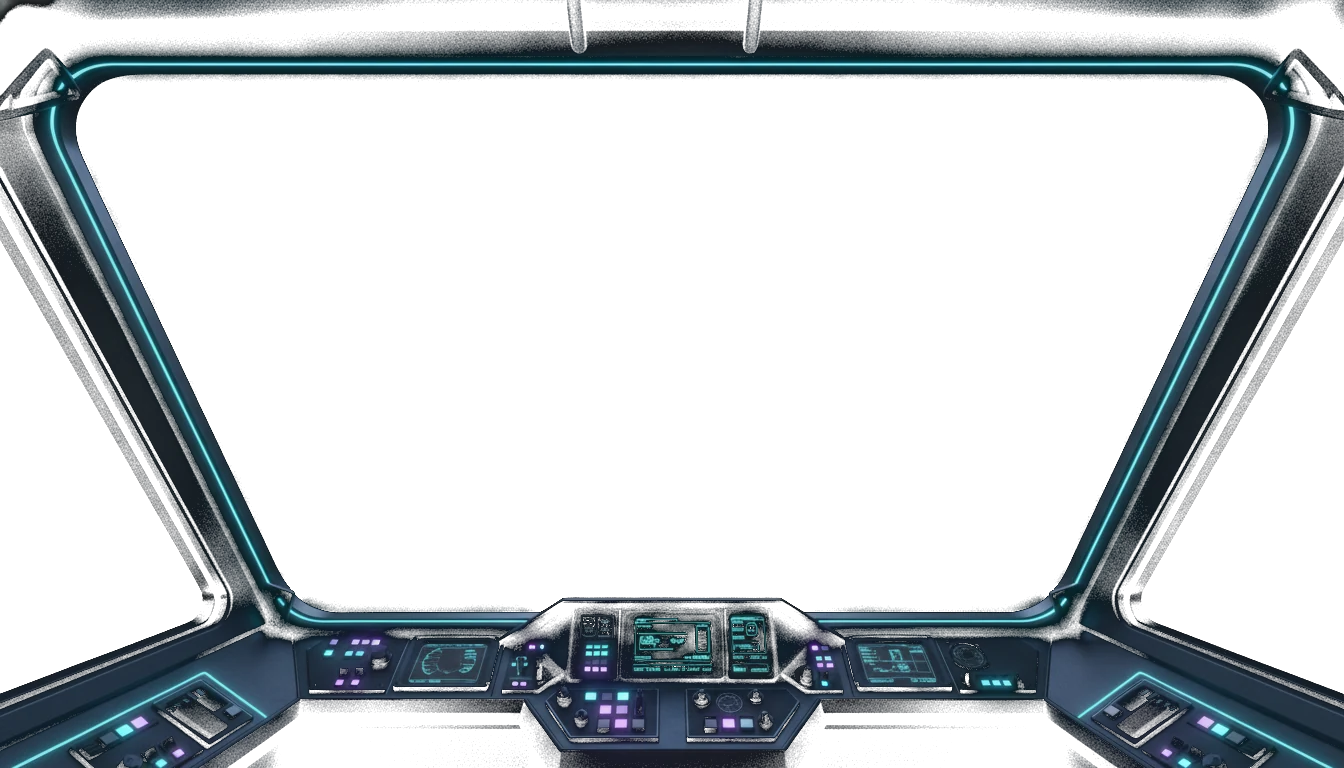
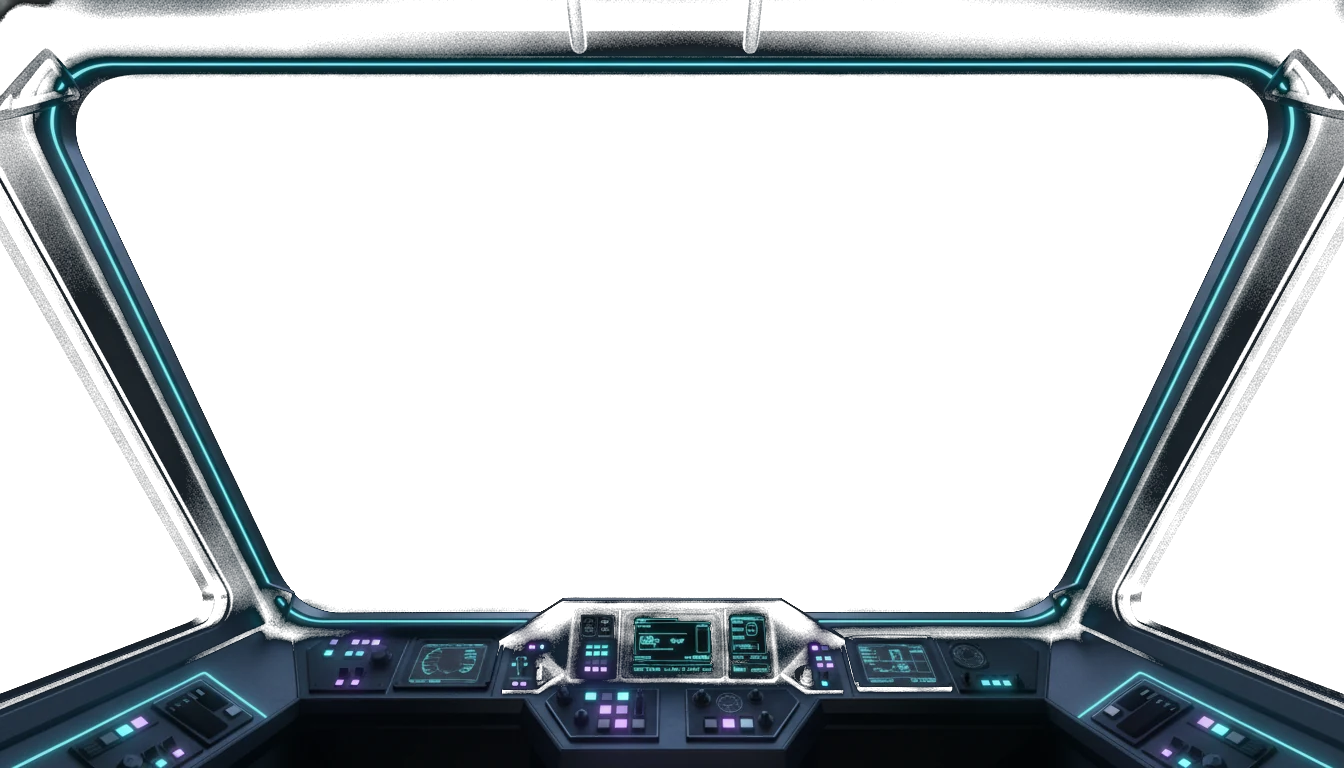
Rocket CDN: игра-исследование - вселенные, комета, спутник, клавиши на консоли
Кабина без дыры: прозрачность вырезается заливкой только из области
окна, тёмная консоль с приборами больше не превращается в пробоину.
Кнопки навигации сняты со «стеклянных таблеток» и посажены на саму
консоль клавишами: тёмный металл, утопленная посадка, светящаяся
кромка. На телефоне - одна лента с прокруткой пальцем.

Три вселенные: в межгалактическом коридоре повторное нажатие
«Галактика» делает гипер-вспышку и переносит в следующую вселенную -
тот же мир в другом свете: небо, туманности, звёзды и солнце
перекрашиваются (Солнечная система, RV-2 фиолетовая, RC-3 янтарная).

Живой космос: комета с хвостом от солнца ходит по эллипсу между
Марсом и Сатурном, спутник RC-SAT с солнечными панелями крутится на
низкой орбите Земли. Оба отвечают бортовому справочнику. Клавиши,
автопилот и справочник щёлкают звуком через Web Audio.

Заставка кабинета: нимбы атмосфер у планет, больше звёздной пыли,
подпись бренда.

Claude-Session: https://claude.ai/code/session_01CyXcsJUPkZjZVf5BT25tew

diff --git a/rocketcdn/assets/rc-flight.js b/rocketcdn/assets/rc-flight.js
@@ -59,6 +59,22 @@ var F = {
 var ui = {};      /* DOM оверлея */
 var W3 = null;    /* всё трёхмерное */
 
+/* Три вселенные: своя окраска неба, туманностей, звёзд и солнца.
+   Мир один, но за гипер-вспышкой он оживает в другом свете - и его
+   хочется исследовать заново. */
+var UNIVERSES = [
+  { name: RU ? "СОЛНЕЧНАЯ СИСТЕМА" : "SOLAR SYSTEM",
+    sky: 0x9db4cc, amb: 0x3a4a68, neb: [0x42b2dc, 0x8a59f6], sun: 0xfff2dc,
+    stars: [0xcfe9f5, 0x8fb7ff, 0xffe9c9] },
+  { name: RU ? "ВСЕЛЕННАЯ RV-2" : "UNIVERSE RV-2",
+    sky: 0xa08cd8, amb: 0x4a3468, neb: [0x8a59f6, 0xd06bff], sun: 0xe8d4ff,
+    stars: [0xe2d4ff, 0xb08cff, 0xffc9ec] },
+  { name: RU ? "ВСЕЛЕННАЯ RC-3" : "UNIVERSE RC-3",
+    sky: 0xd8b48c, amb: 0x684a34, neb: [0xffb066, 0xff7a4d], sun: 0xffe0b0,
+    stars: [0xffe9cf, 0xffc98f, 0xc9e2ff] }
+];
+var uniIdx = 0;
+
 /* ── Оверлей ─────────────────────────────────────────────────
    DOM собирается один раз при первом открытии: кнопка полёта не
    должна ничего стоить тем, кто её не нажал. */
@@ -125,10 +141,15 @@ function buildUI() {
 
   w.querySelector(".rcf-close").addEventListener("click", close);
   ui.ret.addEventListener("click", close);
-  ui.auto.addEventListener("click", function () { setAuto(!F.auto); });
+  ui.auto.addEventListener("click", function () {
+    setAuto(!F.auto);
+    if (g.RC_SOUND && g.RC_SOUND.blip) { try { g.RC_SOUND.blip(F.auto ? 760 : 420, 0.09, "sine", 0.045); } catch (e) {} }
+  });
   ui.nav.addEventListener("click", function (e) {
     var b = e.target.closest("button[data-goal]");
-    if (b) goTo(b.getAttribute("data-goal"));
+    if (!b) return;
+    goTo(b.getAttribute("data-goal"));
+    if (g.RC_SOUND && g.RC_SOUND.blip) { try { g.RC_SOUND.blip(640, 0.08, "square", 0.028); } catch (e) {} }
   });
   bindControls();
 }
@@ -157,8 +178,50 @@ function manual() {
   hideHint();
 }
 
+function applyUniverse(i) {
+  if (!W3) return;
+  var T = g.THREE, u = UNIVERSES[i % UNIVERSES.length];
+  W3.sky.material.color.set(u.sky);
+  W3.amb.color.set(u.amb);
+  W3.sunGlow.material.color = new T.Color(u.sun);
+  for (var k = 0; k < W3.nebSprites.length; k++) {
+    W3.nebSprites[k].material.color = new T.Color(u.neb[k % 2]);
+  }
+  for (k = 0; k < W3.starMats.length; k++) {
+    W3.starMats[k].color.set(u.stars[k]);
+  }
+}
+
+/* Прыжок между вселенными: белая вспышка, за ней мир уже другой */
+var uniBusy = false;
+function jumpUniverse() {
+  if (uniBusy || !W3) return;
+  uniBusy = true;
+  uniIdx = (uniIdx + 1) % UNIVERSES.length;
+  if (ui.fade) { ui.fade.style.transition = "opacity .45s"; ui.fade.style.opacity = "1"; }
+  if (g.RC_SOUND && g.RC_SOUND.chime) { try { g.RC_SOUND.chime(); } catch (e) {} }
+  F.shake = 1;
+  setTimeout(function () {
+    applyUniverse(uniIdx);
+    if (ui.cap) {
+      ui.cap._t = UNIVERSES[uniIdx].name;
+      ui.cap._hold = performance.now() + 3200;
+      ui.cap.classList.remove("in"); void ui.cap.offsetWidth;
+      ui.cap.textContent = UNIVERSES[uniIdx].name;
+      ui.cap.classList.add("in");
+    }
+    if (ui.fade) ui.fade.style.opacity = "0";
+    setTimeout(function () { uniBusy = false; }, 700);
+  }, 480);
+}
+
 function goTo(id) {
   if (!W3 || !W3.at) return;
+  if (id === "galaxy" && F.p > W3.at.jump0 && F.p < W3.at.jump1) {
+    /* Уже в межгалактическом коридоре: прыгаем в другую вселенную */
+    jumpUniverse();
+    return;
+  }
   var p = id === "earth" ? 0.02
         : id === "home" ? 0.985
         : id === "galaxy" ? (W3.at.jump0 + W3.at.jump1) / 2
@@ -239,7 +302,8 @@ function buildWorld() {
   var FOV0 = portrait ? 84 : 72;
   var cam = new T.PerspectiveCamera(FOV0, 1, 0.1, 9000);
 
-  scene.add(new T.AmbientLight(0x3a4a68, 0.85));
+  var amb = new T.AmbientLight(0x3a4a68, 0.85);
+  scene.add(amb);
   var sun = new T.DirectionalLight(0xfff2dc, 1.6);
   sun.position.set(2600, 1000, 1750);
   scene.add(sun);
@@ -274,9 +338,11 @@ function buildWorld() {
     scene.add(pts);
     return pts;
   }
-  stars(mob ? 2400 : 5200, 2.4, 3000, 0xcfe9f5);
-  stars(mob ? 900 : 2200, 3.6, 2200, 0x8fb7ff);
-  stars(mob ? 400 : 900, 4.8, 1500, 0xffe9c9);
+  var starMats = [
+    stars(mob ? 2400 : 5200, 2.4, 3000, 0xcfe9f5).material,
+    stars(mob ? 900 : 2200, 3.6, 2200, 0x8fb7ff).material,
+    stars(mob ? 400 : 900, 4.8, 1500, 0xffe9c9).material
+  ];
 
   /* Солнце: далёкий слепящий блик, как на съёмке с орбиты */
   var sunGlow = new T.Sprite(new T.SpriteMaterial({
@@ -291,11 +357,13 @@ function buildWorld() {
   var nebT = glowSprite(256, "rgba(66,178,220,.32)", "rgba(66,178,220,0)");
   var nebV = glowSprite(256, "rgba(138,89,246,.28)", "rgba(138,89,246,0)");
   var nebs = [[-1400, 500, -2400, 2600, nebT], [1900, -300, -1500, 2100, nebV], [600, 800, 2200, 2400, nebT], [-2100, -600, 1400, 1900, nebV]];
+  var nebSprites = [];
   for (var i = 0; i < nebs.length; i++) {
     var sp = new T.Sprite(new T.SpriteMaterial({ map: nebs[i][4], transparent: true, opacity: 0.5, depthWrite: false }));
     sp.position.set(nebs[i][0], nebs[i][1], nebs[i][2]);
     sp.scale.setScalar(nebs[i][3]);
     scene.add(sp);
+    nebSprites.push(sp);
   }
 
   /* ── Земля ── */
@@ -478,6 +546,46 @@ function buildWorld() {
   var pickables = [eBody, moon, mars, saturn.children[0], hole.children[0]];
   saturn.children[0].userData.info = RU ? "САТУРН · кольца открыл Гюйгенс, 1655" : "SATURN · rings discovered by Huygens, 1655";
 
+  /* Комета: ядро со свечением и хвост из частиц. Ходит по вытянутому
+     эллипсу между Марсом и Сатурном, хвост всегда от солнца. */
+  var comet = new T.Group();
+  var cometCore = new T.Sprite(new T.SpriteMaterial({
+    map: glowSprite(64, "rgba(220,244,255,1)", "rgba(160,220,255,0)"),
+    transparent: true, depthWrite: false, blending: T.AdditiveBlending
+  }));
+  cometCore.scale.setScalar(26);
+  cometCore.userData.info = RU ? "КОМЕТА RC/2026 · хвост всегда смотрит от солнца" : "COMET RC/2026 · the tail always points away from the sun";
+  comet.add(cometCore);
+  var cometTail = (function () {
+    var n = 90, geo = new T.BufferGeometry(), posA = new Float32Array(n * 3);
+    for (var k = 0; k < n; k++) {
+      var d = k / n;
+      posA[k * 3] = -d * 150 + (Math.random() - 0.5) * d * 26;
+      posA[k * 3 + 1] = (Math.random() - 0.5) * d * 26;
+      posA[k * 3 + 2] = (Math.random() - 0.5) * d * 26;
+    }
+    geo.setAttribute("position", new T.BufferAttribute(posA, 3));
+    return new T.Points(geo, new T.PointsMaterial({
+      color: 0xbfe4ff, size: 7, sizeAttenuation: true, map: starDot,
+      transparent: true, opacity: 0.55, depthWrite: false, blending: T.AdditiveBlending
+    }));
+  })();
+  comet.add(cometTail);
+  scene.add(comet);
+  pickables.push(cometCore);
+
+  /* Спутник на орбите Земли: корпус и две солнечные панели */
+  var sat = new T.Group();
+  var satBody = new T.Mesh(new T.BoxGeometry(4, 4, 8),
+    new T.MeshPhongMaterial({ color: 0xd8e2ec, shininess: 60 }));
+  satBody.userData.info = RU ? "СПУТНИК RC-SAT · ретранслятор Rocket CDN на низкой орбите" : "RC-SAT · Rocket CDN relay in low orbit";
+  sat.add(satBody);
+  var panelMat = new T.MeshPhongMaterial({ color: 0x1d4d8f, shininess: 90, side: T.DoubleSide });
+  var p1 = new T.Mesh(new T.PlaneGeometry(16, 5), panelMat); p1.position.x = 11; sat.add(p1);
+  var p2 = new T.Mesh(new T.PlaneGeometry(16, 5), panelMat); p2.position.x = -11; sat.add(p2);
+  scene.add(sat);
+  pickables.push(satBody);
+
   var milky = spiralGalaxy(900, 420, -3300, 950, 0x9fd8ef, 0x8fb7ff, 0.9, 0.3);
   var gal2 = spiralGalaxy(-2800, -500, -1600, 680, 0xb08cff, 0x8a59f6, 1.15, -0.4);
   var gal3 = spiralGalaxy(3400, 700, -400, 620, 0xffd9a6, 0xff9d6b, 0.75, 0.55);
@@ -576,6 +684,7 @@ function buildWorld() {
   return {
     r: r, scene: scene, cam: cam, path: path, looks: LOOKS, at: AT, fov0: FOV0,
     milky: milky, gal2: gal2, gal3: gal3,
+    comet: comet, sat: sat, nebSprites: nebSprites, starMats: starMats, sunGlow: sunGlow, amb: amb,
     earth: earth, moon: moon, mars: mars, saturn: saturn, hole: hole,
     diskMat: diskMat, jump: jump, sky: sky, pickables: pickables,
     tmpA: new T.Vector3(), tmpB: new T.Vector3(), tmpQ: new T.Quaternion(), tmpM: new T.Matrix4()
@@ -751,6 +860,21 @@ function frame(ts) {
   w3.sky.rotation.y += dt * 0.0025;
   if (w3.milky) { w3.milky.rotation.y += dt * 0.01; w3.gal2.rotation.y -= dt * 0.008; w3.gal3.rotation.y += dt * 0.012; }
 
+  /* Комета: эллипс между Марсом и Сатурном, хвост от солнца */
+  if (w3.comet) {
+    var ca = ts * 0.000021;
+    w3.comet.position.set(950 + Math.cos(ca) * 520, -40 + Math.sin(ca * 1.7) * 90, -860 + Math.sin(ca) * 300);
+    w3.tmpB.copy(w3.comet.position).sub(w3.sunGlow.position).normalize();
+    w3.comet.lookAt(w3.tmpA.copy(w3.comet.position).add(w3.tmpB));
+    w3.comet.rotateY(Math.PI / 2);
+  }
+  /* Спутник: низкая орбита Земли с наклоном */
+  if (w3.sat) {
+    var sa = ts * 0.00011;
+    w3.sat.position.set(Math.cos(sa) * 86, Math.sin(sa * 2) * 20, Math.sin(sa) * 86);
+    w3.sat.rotation.y = sa + 1.2;
+  }
+
   /* Бортовой справочник: навёл на планету или галактику - корабль
      говорит, что это и когда открыто. Дорогую проверку пересечений
      гоняем восемь раз в секунду, не каждый кадр. */
@@ -765,7 +889,11 @@ function frame(ts) {
     }
     if (info !== frame._info) {
       frame._info = info;
-      if (info) { ui.info.textContent = info; ui.info.classList.add("on"); }
+      if (info) {
+        ui.info.textContent = info;
+        ui.info.classList.add("on");
+        if (g.RC_SOUND && g.RC_SOUND.blip) { try { g.RC_SOUND.blip(920, 0.06, "sine", 0.018); } catch (e) {} }
+      }
       else ui.info.classList.remove("on");
     }
     F.pick = false;
@@ -785,7 +913,7 @@ function frame(ts) {
   /* HUD */
   var cap = CAPTIONS[0];
   for (i = CAPTIONS.length - 1; i >= 0; i--) { if (F.p >= CAPTIONS[i].p) { cap = CAPTIONS[i]; break; } }
-  if (ui.cap._t !== cap.t) {
+  if (ui.cap._t !== cap.t && !(ui.cap._hold && ts < ui.cap._hold)) {
     ui.cap._t = cap.t;
     ui.cap.classList.remove("in");
     void ui.cap.offsetWidth;

diff --git a/rocketcdn/assets/rc-flight.css b/rocketcdn/assets/rc-flight.css
@@ -85,9 +85,9 @@ html.rc-flying body { overflow: hidden; }
 }
 
 .rcf-track {
-  position: absolute; left: 50%; bottom: clamp(12px, 3.2vh, 30px);
+  position: absolute; left: 50%; bottom: 1.6%;
   transform: translateX(-50%);
-  width: min(420px, 56vw); height: 2px;
+  width: min(380px, 48vw); height: 2px;
   background: rgba(207,233,245,.16);
   border-radius: 2px;
 }
@@ -99,7 +99,7 @@ html.rc-flying body { overflow: hidden; }
 }
 
 .rcf-hint {
-  position: absolute; left: 50%; bottom: clamp(28px, 6.5vh, 60px);
+  position: absolute; left: 50%; bottom: 16%;
   transform: translateX(-50%);
   color: rgba(207,233,245,.75);
   font-size: clamp(11px, 1.3vw, 13px);
@@ -112,7 +112,7 @@ html.rc-flying body { overflow: hidden; }
 @keyframes rcfPulse { 0%,100% { opacity: .55 } 50% { opacity: 1 } }
 
 .rcf-speed {
-  position: absolute; right: clamp(14px, 3vw, 40px); bottom: clamp(12px, 3.2vh, 30px);
+  position: absolute; right: clamp(14px, 4vw, 60px); bottom: 3.4%;
   color: #CFE9F5; text-align: right;
   font-variant-numeric: tabular-nums;
 }
@@ -275,34 +275,53 @@ html[data-theme="light"] .rc-vidbg.on { opacity: .16; }
 }
 .rc-flight.has-cab .rcf-cab { opacity: 1; }
 
-/* ── Навигация по целям ──────────────────────────────────────ы */
+/* ── Навигация: клавиши прямо на консоли корабля ─────────────
+   Кнопки стоят в зоне нарисованной панели и сделаны её клавишами:
+   тёмный металл, утопленная посадка, светящаяся кромка снизу.
+   Никаких «стеклянных таблеток поверх кадра». */
 .rcf-nav {
-  position: absolute; left: 50%; bottom: clamp(46px, 10vh, 92px);
+  position: absolute; left: 50%; bottom: 3.6%;
   transform: translateX(-50%);
-  display: flex; gap: 6px; flex-wrap: wrap; justify-content: center;
-  max-width: 94vw;
+  display: flex; gap: 7px; flex-wrap: wrap; justify-content: center;
+  max-width: min(760px, 86vw);
   pointer-events: auto;
 }
 .rcf-nav button {
   font-family: var(--f-body, "Golos Text", sans-serif);
-  font-size: 11px; font-weight: 600; letter-spacing: .12em;
+  font-size: 10.5px; font-weight: 700; letter-spacing: .14em;
   text-transform: uppercase;
-  color: rgba(207,233,245,.8);
-  background: rgba(4,10,18,.6);
-  border: 1px solid rgba(66,178,220,.3);
-  border-radius: 999px;
-  padding: 7px 13px;
+  color: rgba(180,226,244,.92);
+  background: linear-gradient(180deg, #2a3542 0%, #131c26 42%, #0b121b 100%);
+  border: 1px solid rgba(10,16,24,.9);
+  border-radius: 7px;
+  padding: 8px 13px 9px;
   cursor: pointer;
-  backdrop-filter: blur(5px);
-  -webkit-backdrop-filter: blur(5px);
-  transition: color .2s, border-color .2s, box-shadow .2s;
+  box-shadow:
+    inset 0 1px 0 rgba(207,233,245,.16),
+    inset 0 -3px 6px rgba(0,0,0,.55),
+    0 1px 0 rgba(0,0,0,.8),
+    0 3px 6px -2px rgba(0,0,0,.9);
+  text-shadow: 0 0 8px rgba(66,178,220,.6);
+  transition: color .18s, box-shadow .18s, transform .12s;
 }
-.rcf-nav button:hover { color: #fff; border-color: rgba(66,178,220,.8); }
+.rcf-nav button:hover {
+  color: #EAF7FF;
+  box-shadow:
+    inset 0 1px 0 rgba(207,233,245,.2),
+    inset 0 -3px 6px rgba(0,0,0,.5),
+    0 0 14px -2px rgba(66,178,220,.7),
+    0 3px 6px -2px rgba(0,0,0,.9);
+}
+.rcf-nav button:active { transform: translateY(1px); }
 .rcf-nav button.cur {
-  color: #061019;
-  background: linear-gradient(135deg, var(--cyan, #42B2DC), #7BD1EC);
-  border-color: transparent;
-  box-shadow: 0 0 18px -4px rgba(66,178,220,.9);
+  color: #06131d;
+  background: linear-gradient(180deg, #9FE0F6 0%, #42B2DC 60%, #2C8FB8 100%);
+  text-shadow: none;
+  box-shadow:
+    inset 0 1px 0 rgba(255,255,255,.55),
+    inset 0 -3px 6px rgba(6,24,36,.35),
+    0 0 20px -3px rgba(66,178,220,.95),
+    0 3px 6px -2px rgba(0,0,0,.9);
 }
 
 /* ── Автопилот ───────────────────────────────────────────────ы */
@@ -392,9 +411,26 @@ html[data-theme="light"] .rc-vidbg.on { opacity: .16; }
 }
 
 @media (max-width: 760px) {
-  .rcf-nav { bottom: clamp(56px, 11vh, 100px); gap: 5px; }
-  .rcf-nav button { font-size: 10px; padding: 6px 10px; }
+  /* На телефоне консоль ниже и уже: клавиши идут одной лентой с
+     прокруткой пальцем, как строка приборов, а не в три этажа
+     поверх окна */
+  .rcf-nav {
+    bottom: 4.6%; gap: 5px;
+    max-width: 94vw; width: 94vw;
+    flex-wrap: nowrap; justify-content: flex-start;
+    overflow-x: auto; overscroll-behavior-x: contain;
+    -webkit-overflow-scrolling: touch;
+    scrollbar-width: none;
+    padding: 4px 6px;
+    -webkit-mask-image: linear-gradient(90deg, transparent 0, #000 14px, #000 calc(100% - 14px), transparent 100%);
+    mask-image: linear-gradient(90deg, transparent 0, #000 14px, #000 calc(100% - 14px), transparent 100%);
+  }
+  .rcf-nav::-webkit-scrollbar { display: none; }
+  .rcf-nav button { font-size: 9.5px; padding: 7px 10px 8px; flex: 0 0 auto; }
   .rcf-auto { padding: 8px 12px; font-size: 11px; }
-  .rcf-holo { right: 10px; bottom: 15vh; width: 46px; }
+  .rcf-holo { right: 8px; bottom: 12.5%; width: 44px; }
   .rcf-info { top: clamp(64px, 12vh, 110px); }
+  .rcf-hint { bottom: 17%; font-size: 10.5px; max-width: 90vw; white-space: normal; text-align: center; }
+  .rcf-speed { display: none; }
+  .rcf-track { bottom: 1.2%; }
 }

diff --git a/rocketcdn/splash-lk.html b/rocketcdn/splash-lk.html
@@ -411,9 +411,12 @@ var V4_CSS =
 '@media (prefers-color-scheme:dark){.rcl{background:#050B12!important}}\n' +
 '.rcl-4 .rcl-pc{position:absolute;left:0;right:0;bottom:9%;text-align:center;\n' +
 '  font-size:13px;font-weight:700;color:#0A5897;font-variant-numeric:tabular-nums}\n' +
-'@media (prefers-color-scheme:dark){.rcl-4 .rcl-pc{color:#42B2DC}}\n';
+'.rcl-4 .rcl-br{position:absolute;left:0;right:0;bottom:14.5%;text-align:center;\n' +
+'  font-size:10px;font-weight:600;letter-spacing:.44em;color:rgba(10,88,151,.5)}\n' +
+'@media (prefers-color-scheme:dark){.rcl-4 .rcl-pc{color:#42B2DC}\n' +
+'  .rcl-4 .rcl-br{color:rgba(207,233,245,.4)}}\n';
 
-var V4_HTML = '<div class="rcl-4"><canvas></canvas><div class="rcl-pc">0%</div></div>';
+var V4_HTML = '<div class="rcl-4"><canvas></canvas><div class="rcl-br">ROCKET CDN</div><div class="rcl-pc">0%</div></div>';
 
 var V4_AUDIO =
 '  var pad=null,padG=null;\n' +
@@ -441,7 +444,7 @@ var V4_DRAW = function (W, H, S, p, t, dt) {
 
   /* Пыль на заднем плане: едва заметная, чтобы кадр не был голым */
   var dustCol = dark ? "226,232,240" : "10,88,151";
-  for (var d = 0; d < 26; d++) {
+  for (var d = 0; d < 44; d++) {
     var dx = (Math.sin(d * 12.9898) * 43758.5453) % 1; if (dx < 0) dx += 1;
     var dy = (Math.sin(d * 78.233) * 12578.1459) % 1; if (dy < 0) dy += 1;
     var tw = 0.5 + 0.5 * Math.sin(t * 0.8 + d * 1.7);
@@ -484,6 +487,13 @@ var V4_DRAW = function (W, H, S, p, t, dt) {
 
   function planet(it) {
     var o = it.o, r = o[1] * S * it.k;
+    /* Нимб: тонкое свечение атмосферы в цвет планеты */
+    var ng = x.createRadialGradient(it.x, it.y, r * 0.6, it.x, it.y, r * 1.9);
+    ng.addColorStop(0, "rgba(0,0,0,0)");
+    ng.addColorStop(0.55, o[3] + (dark ? "2E" : "22"));
+    ng.addColorStop(1, o[3] + "00");
+    x.fillStyle = ng;
+    x.beginPath(); x.arc(it.x, it.y, r * 1.9, 0, 6.283); x.fill();
     /* Свет со стороны солнца */
     var la = Math.atan2(cy - it.y, cx - it.x);
     var lx = it.x + Math.cos(la) * r * 0.45, ly = it.y + Math.sin(la) * r * 0.45;
